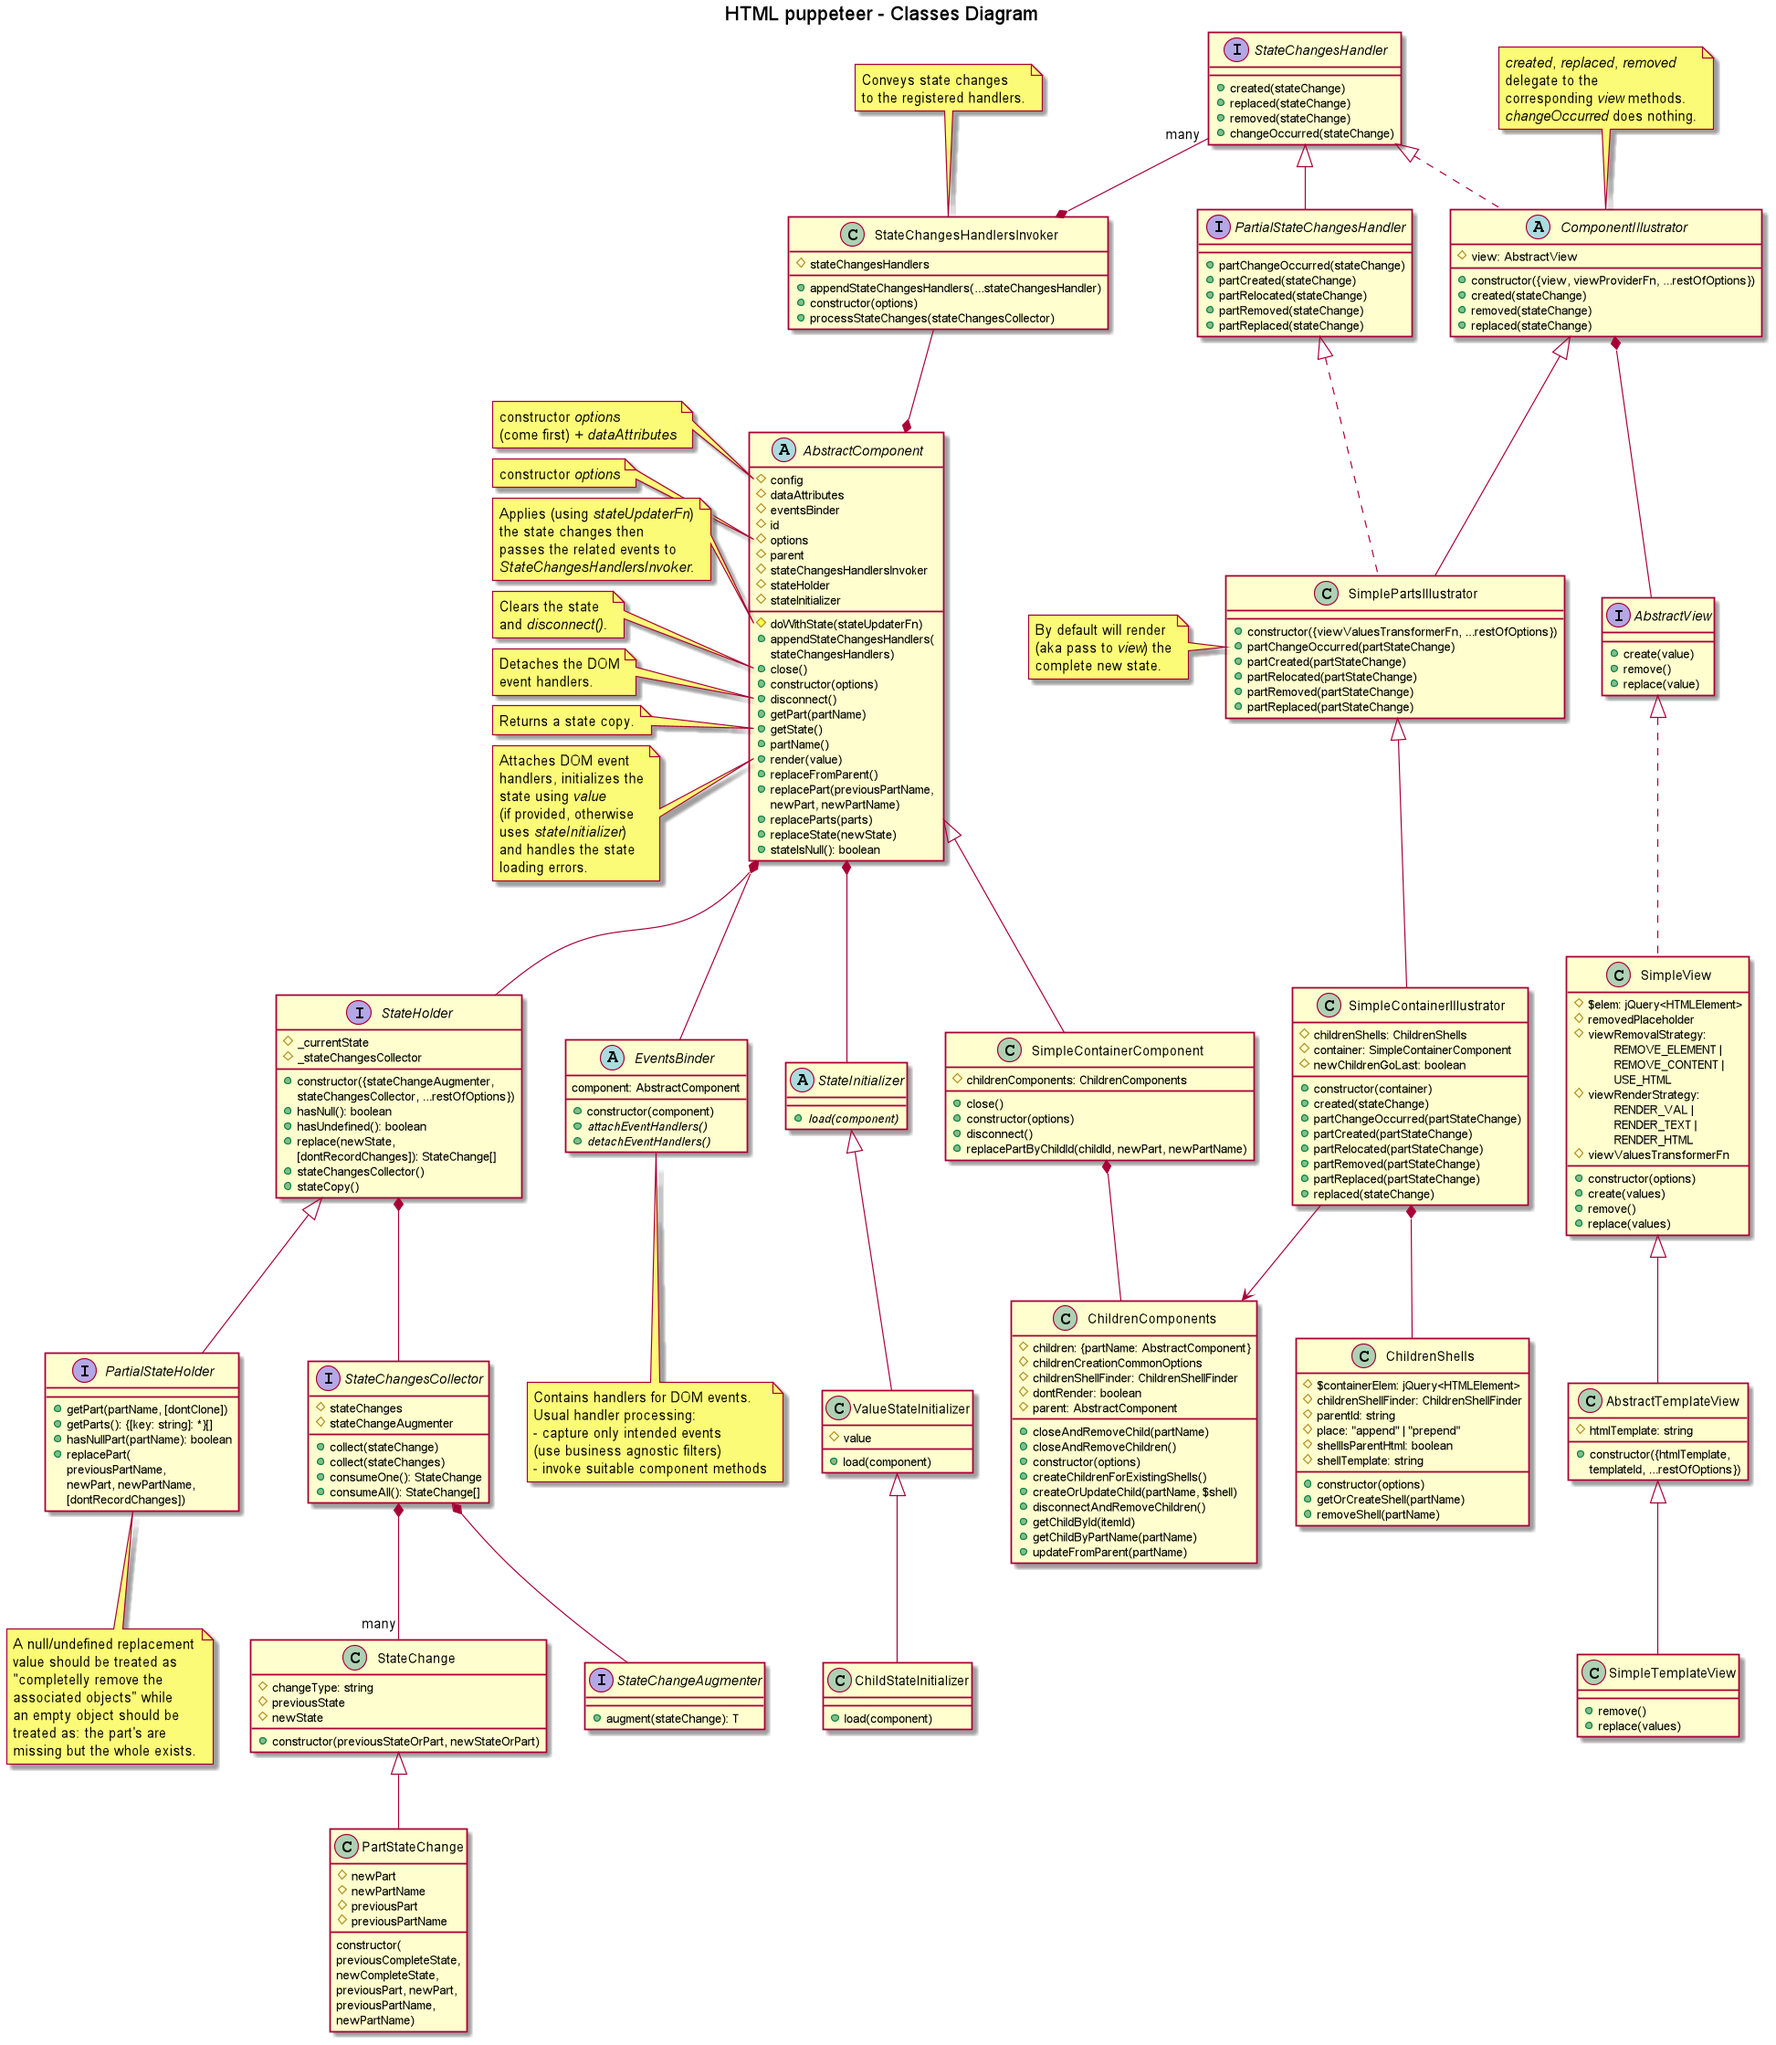
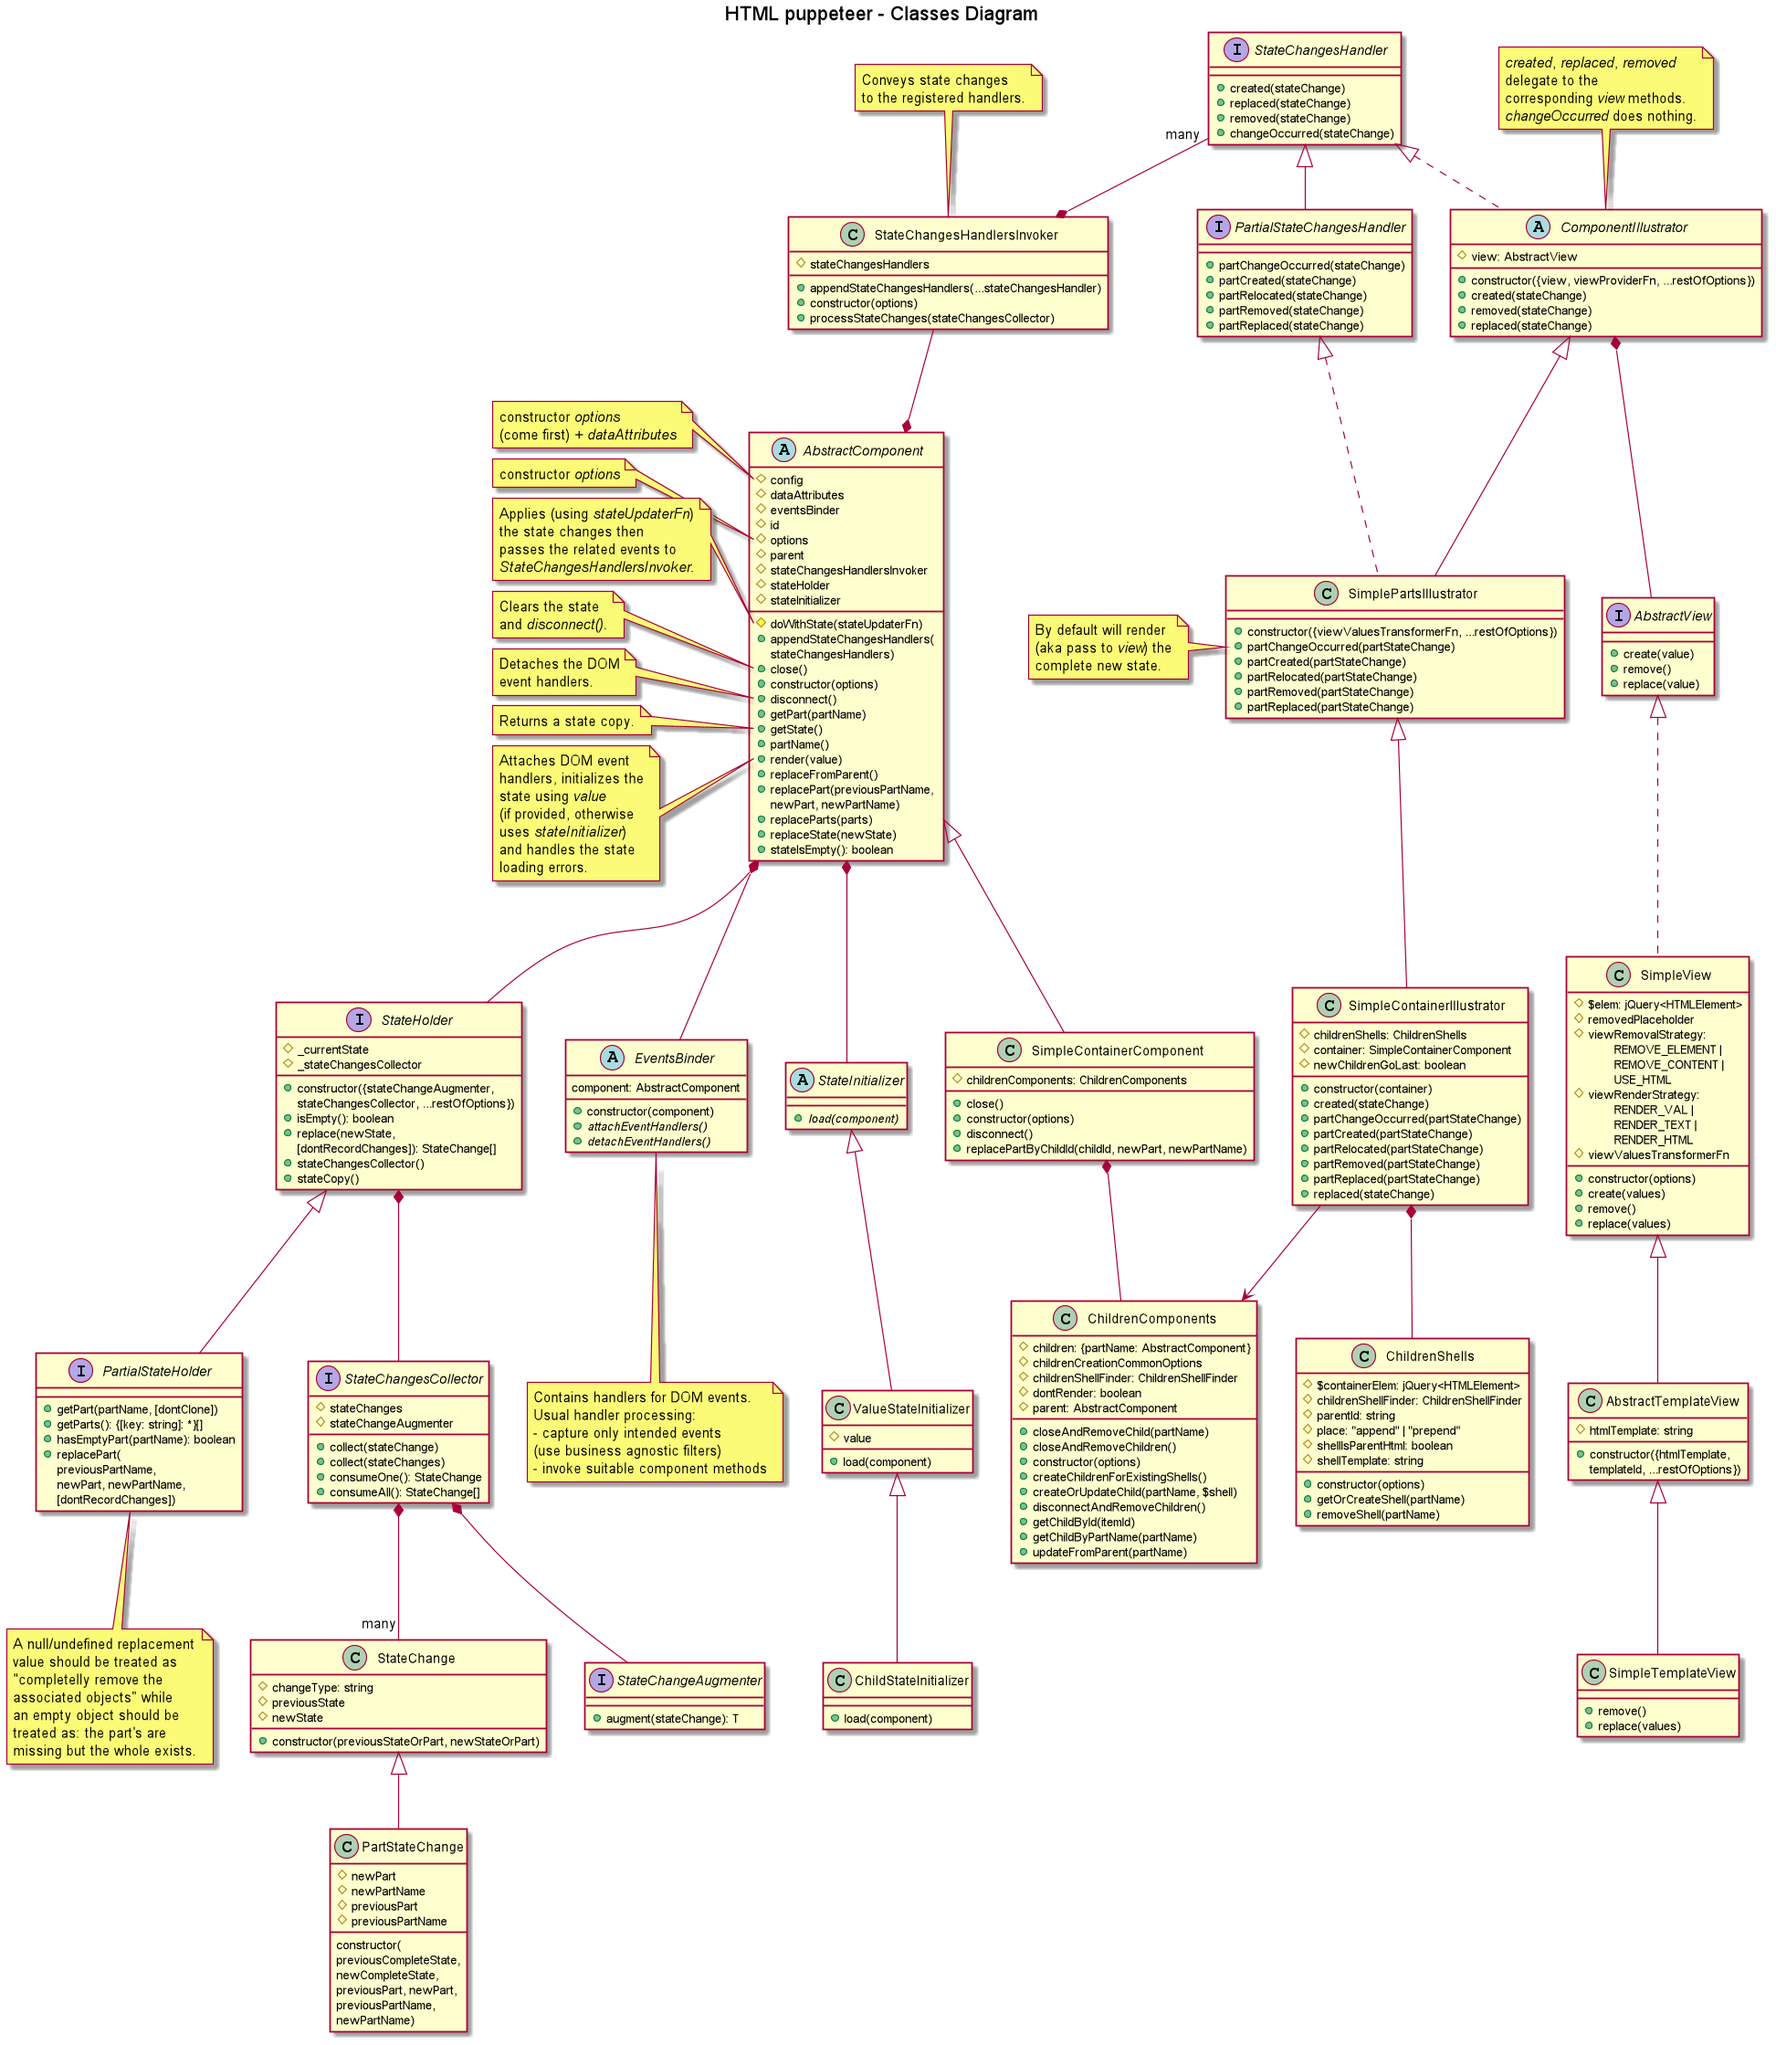
BasicContainerComponent.js DRAFT AbstractComponent: stateIsNull -> stateIsEmpty PartialStateHolder: hasNullPart -> hasEmptyPart StateHolder: hasNull -> isEmpty

Changed region(s): [[0.1542, 0.4623, 0.2776, 0.6163], [0.0, 0.6472, 0.1542, 0.8013]]

diff --git a/ro/go/adrhc/html-puppeteer/core/component/BasicContainerComponent.js b/ro/go/adrhc/html-puppeteer/core/component/BasicContainerComponent.js
@@ -45,7 +45,7 @@ export default class BasicContainerComponent extends AbstractComponent {
     }
 
     /**
-     * Completely replaces the component's state.
+     * Completely replaces the component's state and creates the children.
      *
      * @param {SCT=} newState
      */
@@ -62,21 +62,43 @@ export default class BasicContainerComponent extends AbstractComponent {
         // create shell and children for missing (dynamic) shells skipping existing children (having static shells)
         partsOf(newState, !this.newChildrenGoLast)
             .filter(([key]) => this.childrenComponents.getChildByPartName(key) == null)
-            .forEach(([key]) => this._partCreatedImpl(key));
+            .filter(([key]) => !this.stateHolder.hasEmptyPart(key))
+            .forEach(([key]) => this._createOrUpdateChild(key));
     }
 
+    /**
+     * @param {PartName=} previousPartName
+     * @param {SCP=} newPart
+     * @param {PartName=} newPartName
+     */
     replacePart(previousPartName, newPart, newPartName) {
-
+        super.replacePart(previousPartName, newPart, newPartName);
+        const partName = newPartName ?? previousPartName;
+        if (this.stateHolder.hasEmptyPart(partName)) {
+            this._removeChild(partName);
+        } else {
+            this._createOrUpdateChild(partName);
+        }
     }
 
     /**
      * @param {PartName} partName
      * @protected
      */
-    _replacePartImpl(partName) {
+    _createOrUpdateChild(partName) {
         const $shell = this.childrenShells.getOrCreateShell(partName);
         isTrue($shell != null,
             `$shell is null for part named ${partName}!`)
         this.childrenComponents.createOrUpdateChild(partName, $shell);
+    }
+
+    /**
+     * @param {PartName} partName
+     * @protected
+     */
+    _removeChild(partName) {
+        this.childrenComponents.closeAndRemoveChild(partName);
+        // the shell might actually be removed already by the closing child
+        this.childrenShells.removeShell(partName);
     }
 }

diff --git a/ro/go/adrhc/html-puppeteer/core/state/StateHolder.js b/ro/go/adrhc/html-puppeteer/core/state/StateHolder.js
@@ -51,15 +51,8 @@ export default class StateHolder {
     /**
      * @return {boolean}
      */
-    hasNull() {
-        return this._currentState == null;
-    }
-
-    /**
-     * @return {boolean}
-     */
-    hasUndefined() {
-        return typeof this._currentState === "undefined";
+    isEmpty() {
+        return stateIsEmpty(this._currentState);
     }
 
     /**
@@ -125,4 +118,8 @@ export default class StateHolder {
     _collectStateChanges(stateChanges = []) {
         return stateChanges.map(sc => this._stateChangesCollector.collect(sc)).filter(it => it != null);
     }
+}
+
+export function stateIsEmpty(state) {
+    return state == null;
 }

diff --git a/ro/go/adrhc/html-puppeteer/core/state/PartialStateHolder.js b/ro/go/adrhc/html-puppeteer/core/state/PartialStateHolder.js
@@ -1,4 +1,4 @@
-import StateHolder from "./StateHolder.js";
+import StateHolder, {stateIsEmpty} from "./StateHolder.js";
 import {isTrue} from "../../util/AssertionUtils.js";
 import {removeByIndex, updateOrInsert} from "../../util/ArrayUtils.js";
 import PartStateChange from "./change/PartStateChange.js";
@@ -21,8 +21,8 @@ export default class PartialStateHolder extends StateHolder {
      * @param  {PartName} partName
      * @return {boolean}
      */
-    hasNullPart(partName) {
-        return _.get(this._currentState, partName) == null;
+    hasEmptyPart(partName) {
+        return stateIsEmpty(_.get(this._currentState, partName));
     }
 
     /**

diff --git a/ro/go/adrhc/html-puppeteer/core/component/state-initializer/ChildStateInitializer.js b/ro/go/adrhc/html-puppeteer/core/component/state-initializer/ChildStateInitializer.js
@@ -1,4 +1,5 @@
 import ValueStateInitializer from "./ValueStateInitializer.js";
+import {stateIsEmpty} from "../../state/StateHolder.js";
 
 /**
  * @template SCT, SCP
@@ -9,7 +10,7 @@ export default class ChildStateInitializer extends ValueStateInitializer {
      */
     load(component) {
         component.replaceFromParent();
-        if (component.stateIsNull() && this.value != null) {
+        if (component.stateIsEmpty() && !stateIsEmpty(this.value)) {
             super.load(component);
         }
     }

diff --git a/ro/go/adrhc/html-puppeteer/core/state-changes-handler/SimpleContainerIllustrator.js b/ro/go/adrhc/html-puppeteer/core/state-changes-handler/SimpleContainerIllustrator.js
@@ -77,6 +77,7 @@ export default class SimpleContainerIllustrator extends SimplePartsIllustrator {
         // create shell and children for missing (dynamic) shells skipping existing children (having static shells)
         partsOf(stateChange.newState, !this.newChildrenGoLast)
             .filter(([key]) => this.childrenComponents.getChildByPartName(key) == null)
+            .filter(([key]) => stateChange.newState[key] != null)
             .forEach(([key]) => this._partCreatedImpl(key));
     }
 

diff --git a/ro/go/adrhc/html-puppeteer/core/component/composition/ChildrenComponents.js b/ro/go/adrhc/html-puppeteer/core/component/composition/ChildrenComponents.js
@@ -48,6 +48,7 @@ export default class ChildrenComponents {
         this.parent = parent;
         this.dontRenderChildren = dontRenderChildren;
         this.childrenCreationCommonOptions = childrenCreationCommonOptions;
+        // Puppeteer.anime() will provide an empty parent
         const elemIdOrJQuery = parent?.config.elemIdOrJQuery ?? document;
         this.childrenShellFinder = childrenShellFinder ?? new ChildrenShellFinder(elemIdOrJQuery);
     }

diff --git a/7periodic-parts-cats-and-dogs.js b/7periodic-parts-cats-and-dogs.js
@@ -26,7 +26,7 @@ function updateClockIntervalStatePart(stateHolder, clockStateChange) {
  * @param {StateChange} clockStateChange
  */
 function stateAndClockStateChangeConsumer(stateHolder, clockStateChange) {
-    if (stateHolder.hasNull()) {
+    if (stateHolder.isEmpty()) {
         // set the stateHolder initial value (i.e. the clock's interval)
         stateHolder.replace({interval: stateHolder.config.interval});
     } else {

diff --git a/ro/go/adrhc/html-puppeteer/core/component/AbstractComponent.js b/ro/go/adrhc/html-puppeteer/core/component/AbstractComponent.js
@@ -100,8 +100,8 @@ export default class AbstractComponent extends StateProcessor {
     /**
      * @return {boolean}
      */
-    stateIsNull() {
-        return this.stateHolder.hasNull();
+    stateIsEmpty() {
+        return this.stateHolder.isEmpty();
     }
 
     /**
